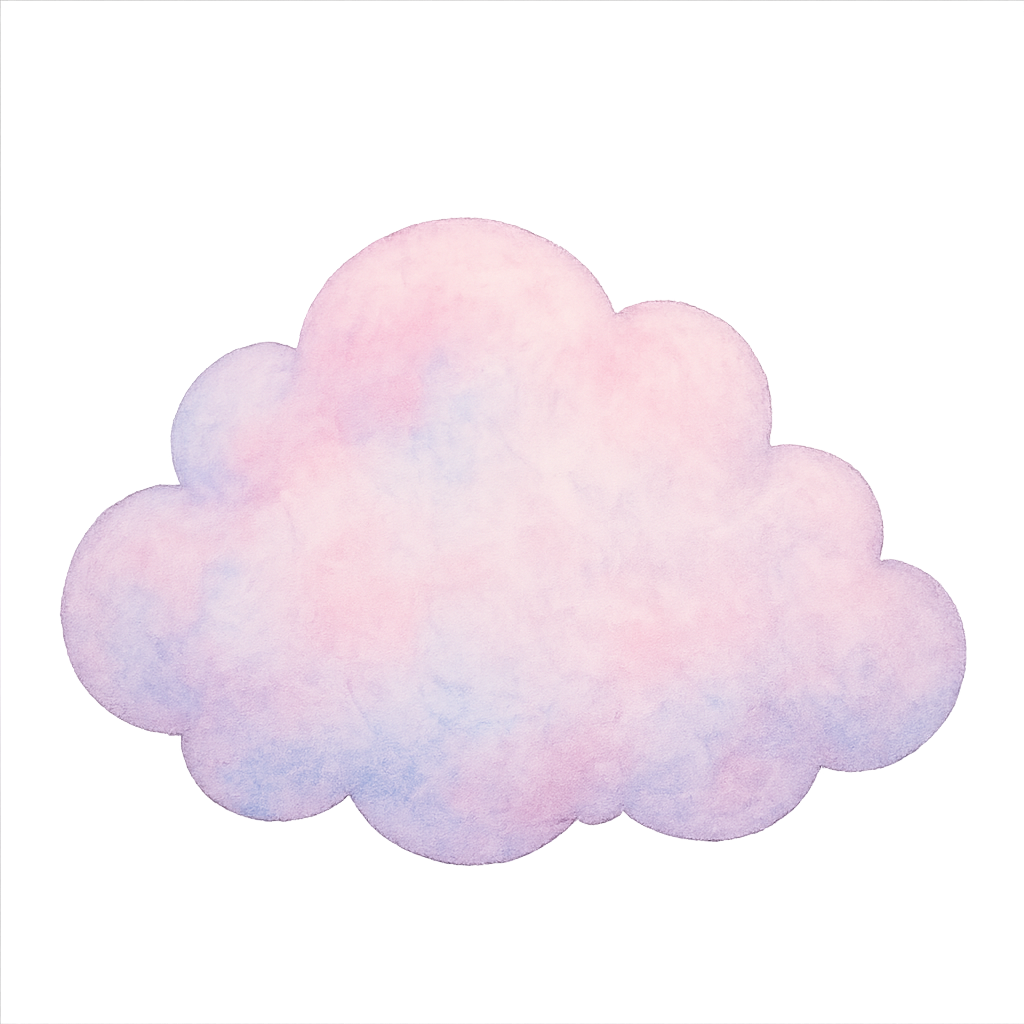
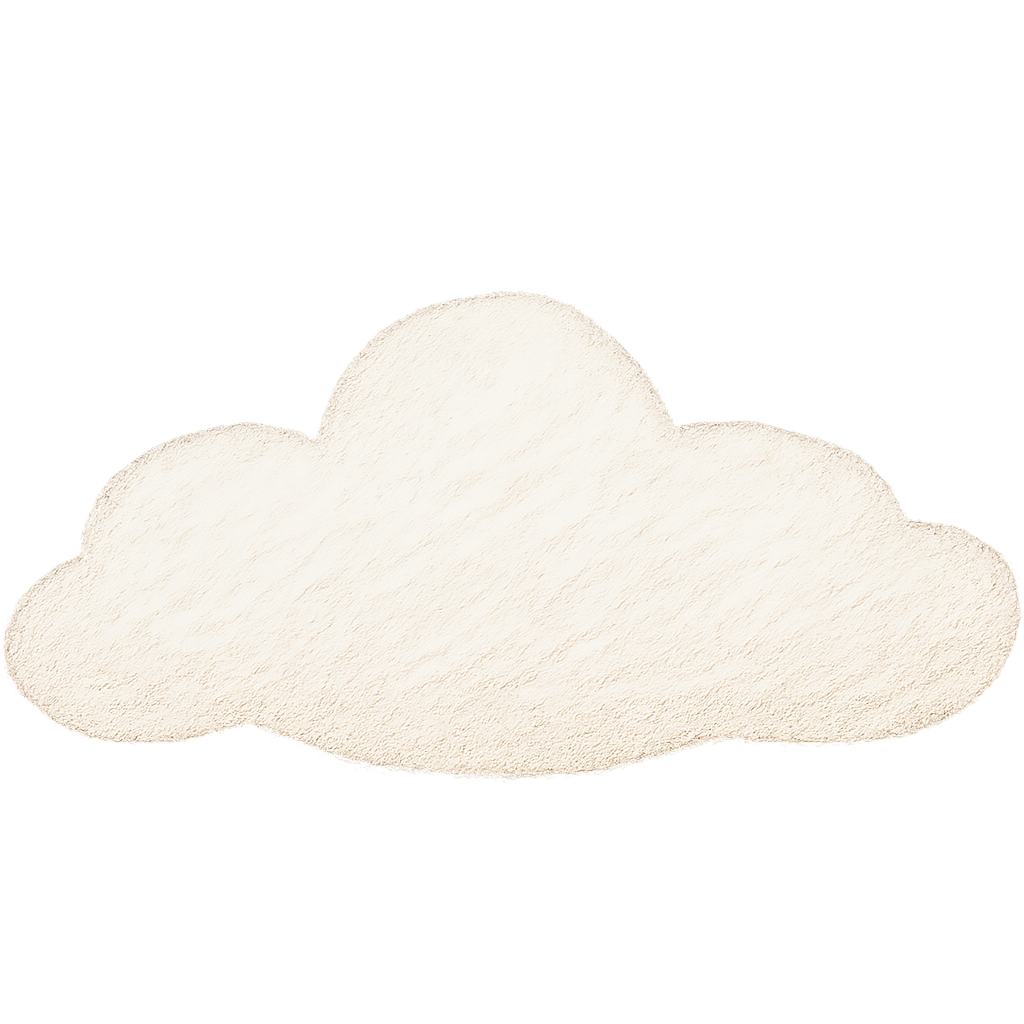
在小羊页面中添加云朵动态效果，优化云朵生成逻辑以适应客户端渲染。同时更新云朵样式，确保在不同屏幕尺寸下的良好展示。删除旧的云朵图片文件，并替换为新的云朵资源。

Changed region(s): [[0.0, 0.1875, 1.0, 0.8438]]

diff --git a/app/sheep/page.tsx b/app/sheep/page.tsx
@@ -1,6 +1,6 @@
 "use client"
 
-import { useState, useEffect, useRef } from "react"
+import { useState, useEffect, useRef, ReactNode } from "react"
 import Image from "next/image"
 import Link from "next/link"
 
@@ -27,6 +27,8 @@ export default function SheepPage() {
   const [selectedSheep, setSelectedSheep] = useState<SheepData | null>(null)
   const [catchCount, setCatchCount] = useState(0)
   const sceneRef = useRef<HTMLDivElement>(null)
+  const [cloudNodes, setCloudNodes] = useState<ReactNode[]>([]);
+  const [isMounted, setIsMounted] = useState(false);
   
   const sheepCount = 7
   // 基础大小增加到2.3倍
@@ -128,6 +130,61 @@ export default function SheepPage() {
       })
     }
   }, []) // 移除allSheep依赖，避免无限循环
+
+  useEffect(() => {
+    setIsMounted(true);
+  }, []);
+
+  useEffect(() => {
+    if (isMounted) { // Check if component is mounted (client-side)
+      const generateCloudElements = () => {
+        // All calculations depending on window or random values are now inside this function
+        // which is only called client-side after mount.
+        return Array.from({ length: 10 }).map((_, i) => {
+          const cloudId = ((i % 4) + 1);
+          const baseWidth = 100 + Math.random() * 120;
+          const width = baseWidth * 2; 
+          const height = (baseWidth / 3) * 1.8 * 2; // Maintain aspect ratio for the doubled baseWidth
+
+          let topValuePercent = 5 + Math.random() * 50; // Default/fallback top
+          if (typeof window !== 'undefined' && window.innerHeight > 0) {
+             const cloudsContainerHeightPx = window.innerHeight * 0.4; 
+             if (cloudsContainerHeightPx > 0) {
+                const cloudHeightRatio = height / cloudsContainerHeightPx;
+                let maxTop = (1 - cloudHeightRatio) * 100 - 10; // 10% buffer from bottom
+                maxTop = Math.max(5, maxTop); // Ensure clouds are not too high (min 5% from top)
+                maxTop = Math.min(maxTop, 65); // Ensure clouds don't start too low (max 65% from top)
+                topValuePercent = Math.random() * maxTop;
+             }
+          }
+          
+          const initialOffscreenDistance = width + Math.random() * 250; 
+
+          return (
+            <div
+              key={`cloud-${i}-${Math.random()}`} // Add random to key to help with re-renders if needed, though not ideal
+              className="cloud absolute opacity-80"
+              style={{
+                width: `${width}px`,
+                height: `${height}px`,
+                backgroundImage: `url('/sheep/cloud${cloudId}.png')`,
+                backgroundRepeat: 'no-repeat',
+                backgroundSize: 'contain',
+                top: `${topValuePercent}%`,
+                left: `-${initialOffscreenDistance}px`, 
+                animationName: 'floatLeftToRight',
+                animationTimingFunction: 'linear',
+                animationIterationCount: 'infinite',
+                animationDelay: `${Math.random() * 30}s`, 
+                animationDuration: `${35 + Math.random() * 30}s` 
+              }}
+            />
+          );
+        });
+      };
+      setCloudNodes(generateCloudElements());
+    }
+  }, [isMounted, allSheep.length]); // Re-generate clouds if isMounted changes or sheep are interacted with (as a proxy for potential re-renders)
 
   // 创建小羊
   const createSheep = () => {
@@ -563,24 +620,8 @@ export default function SheepPage() {
         {/* 太阳元素被移除 */}
 
         {/* 云朵 */}
-        <div className="clouds absolute top-0 w-full h-[40%] overflow-hidden">
-          {[1, 2, 3, 4, 5, 6].map((i) => (
-            <div
-              key={i}
-              className={`cloud absolute opacity-85 animate-float`}
-              style={{
-                width: `${160 + i * 20}px`,
-                height: `${100 + i * 15}px`,
-                backgroundImage: `url('/sheep/cloud${((i - 1) % 3) + 1}.png')`,
-                backgroundRepeat: 'no-repeat',
-                backgroundSize: 'contain',
-                top: `${5 + (i % 4) * 8}%`, // 更均匀的垂直分布，4行分布
-                left: `-${300 + i * 150}px`, // 增加水平间距到150px
-                animationDelay: `${-i * 5}s`, // 增加延迟间隔到5秒
-                animationDuration: `${20 + i * 3}s` // 增加动画持续时间差异
-              }}
-            />
-          ))}
+        <div className="clouds absolute top-0 w-full h-[40%] overflow-hidden pointer-events-none">
+          {cloudNodes}
         </div>
         
         {/* 抓羊计数器 */}
@@ -654,6 +695,19 @@ export default function SheepPage() {
         @keyframes float {
           from { transform: translateX(0); }
           to { transform: translateX(calc(100vw + 150px)); }
+        }
+
+        @keyframes floatLeftToRight {
+          from { transform: translateX(0); }
+          to { transform: translateX(calc(100vw + 300px)); } /* Ensure full exit for varied widths */
+        }
+
+        @keyframes floatRightToLeft {
+          from { transform: translateX(0); }
+          /* Start position is already calc(100vw + offset), so target is to move leftwards across the screen */
+          /* We need to move it by -(100vw + its own width + initial offset) */
+          /* For simplicity, let's define a large enough negative translation */
+          to { transform: translateX(calc(-100vw - 300px)); }
         }
 
         .animate-float {

diff --git a/next.config.js b/next.config.js
@@ -1,0 +1,14 @@
+/** @type {import('next').NextConfig} */
+const nextConfig = {
+  // Your existing Next.js config options here...
+  devIndicators: {
+    // buildActivity: false, // Removed as it's deprecated
+    position: 'bottom-right', // Renamed from buildActivityPosition
+  },
+  experimental: {
+    // This allows specified origins to access the dev server
+    allowedDevOrigins: ["http://localhost:3000", "http://127.0.0.1:3000", "http://192.168.66.235:3000"],
+  }
+};
+
+module.exports = nextConfig; 
